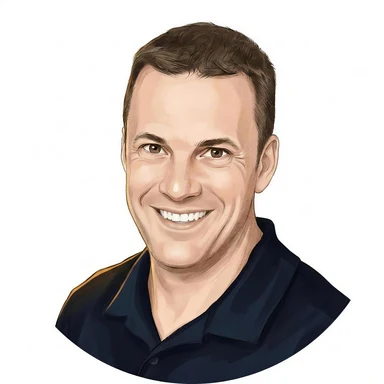
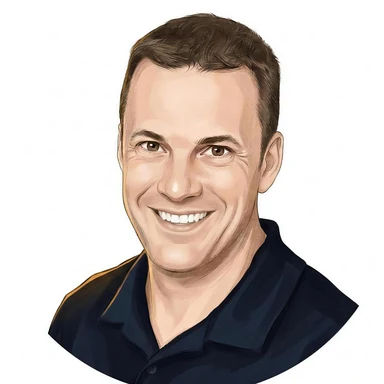
Tighten headshot crop 5% and enlarge circle 5%
Claude-Session: https://claude.ai/code/session_01SQooEJ9WScn9Jhg6R7ehMe

diff --git a/src/components/sections/CredibilityBar.tsx b/src/components/sections/CredibilityBar.tsx
@@ -42,7 +42,7 @@ export function CredibilityBar() {
           alt="Illustrated portrait of Bryan, founder of Mango Catalyst"
           width={192}
           height={192}
-          className="size-24 shrink-0 rounded-full bg-white"
+          className="size-[6.3rem] shrink-0 rounded-full bg-white"
         />
         <p className="max-w-[44rem] leading-relaxed text-body">
           <strong className="font-semibold text-ink">{"I'm Bryan."}</strong>{" "}